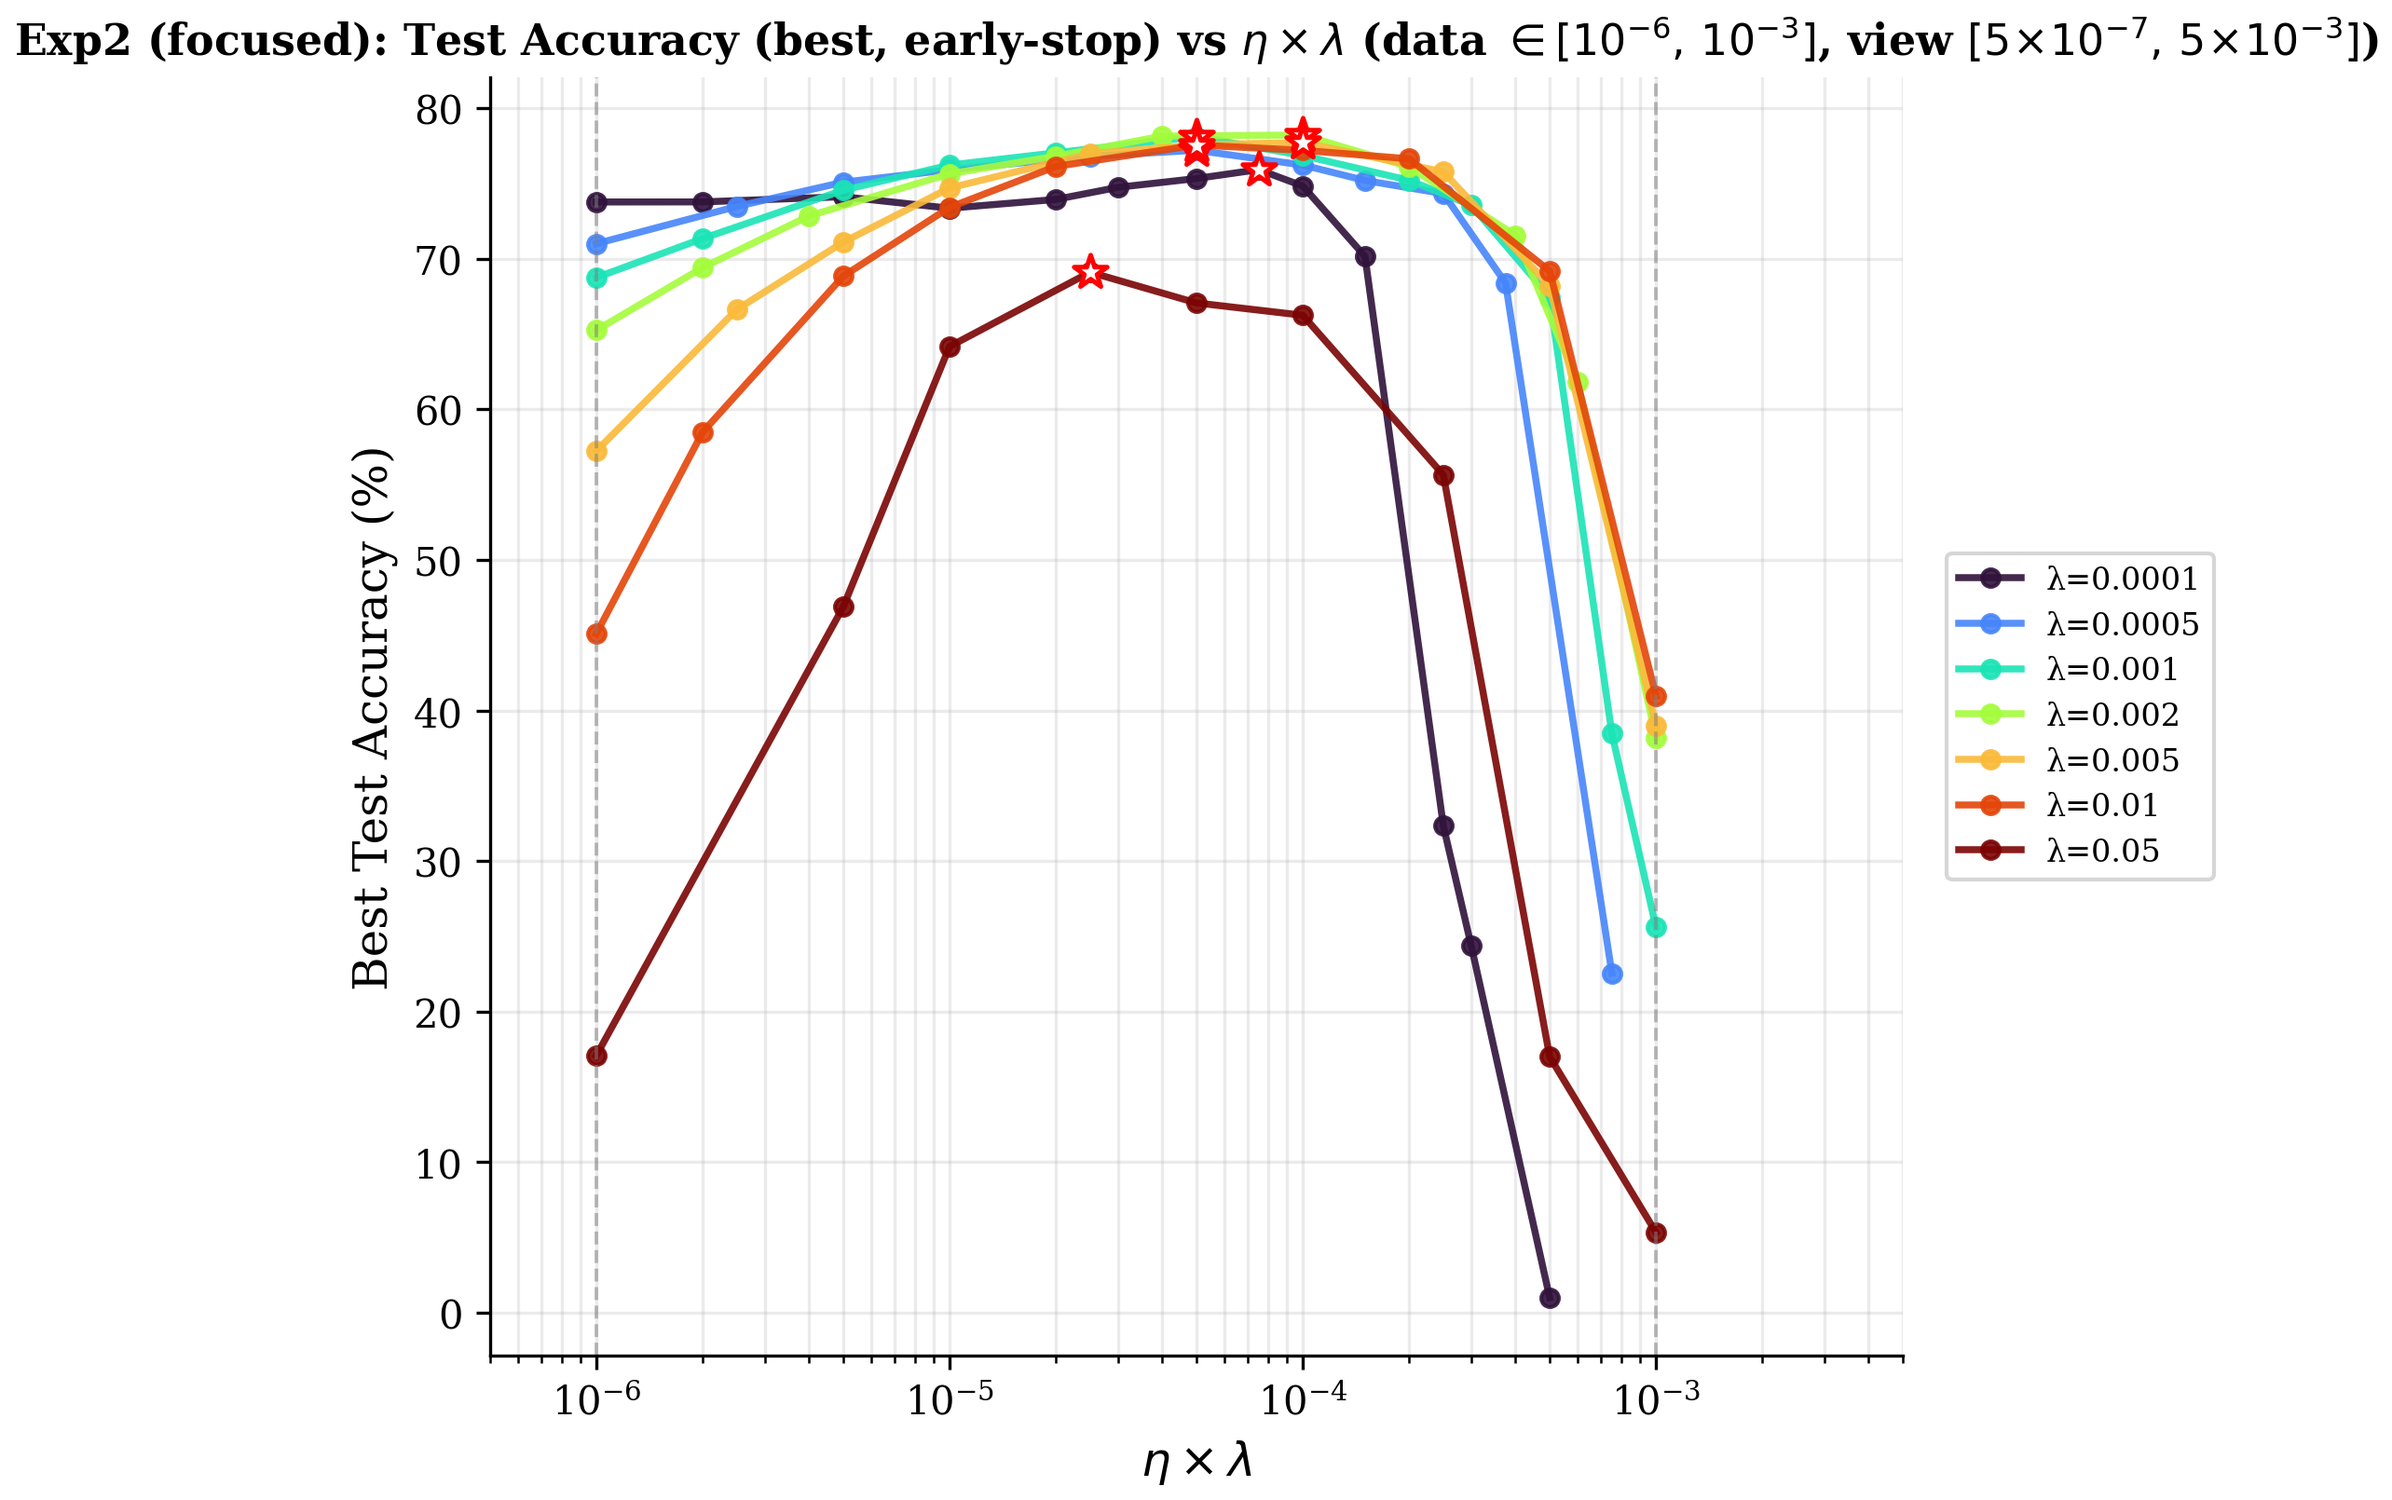
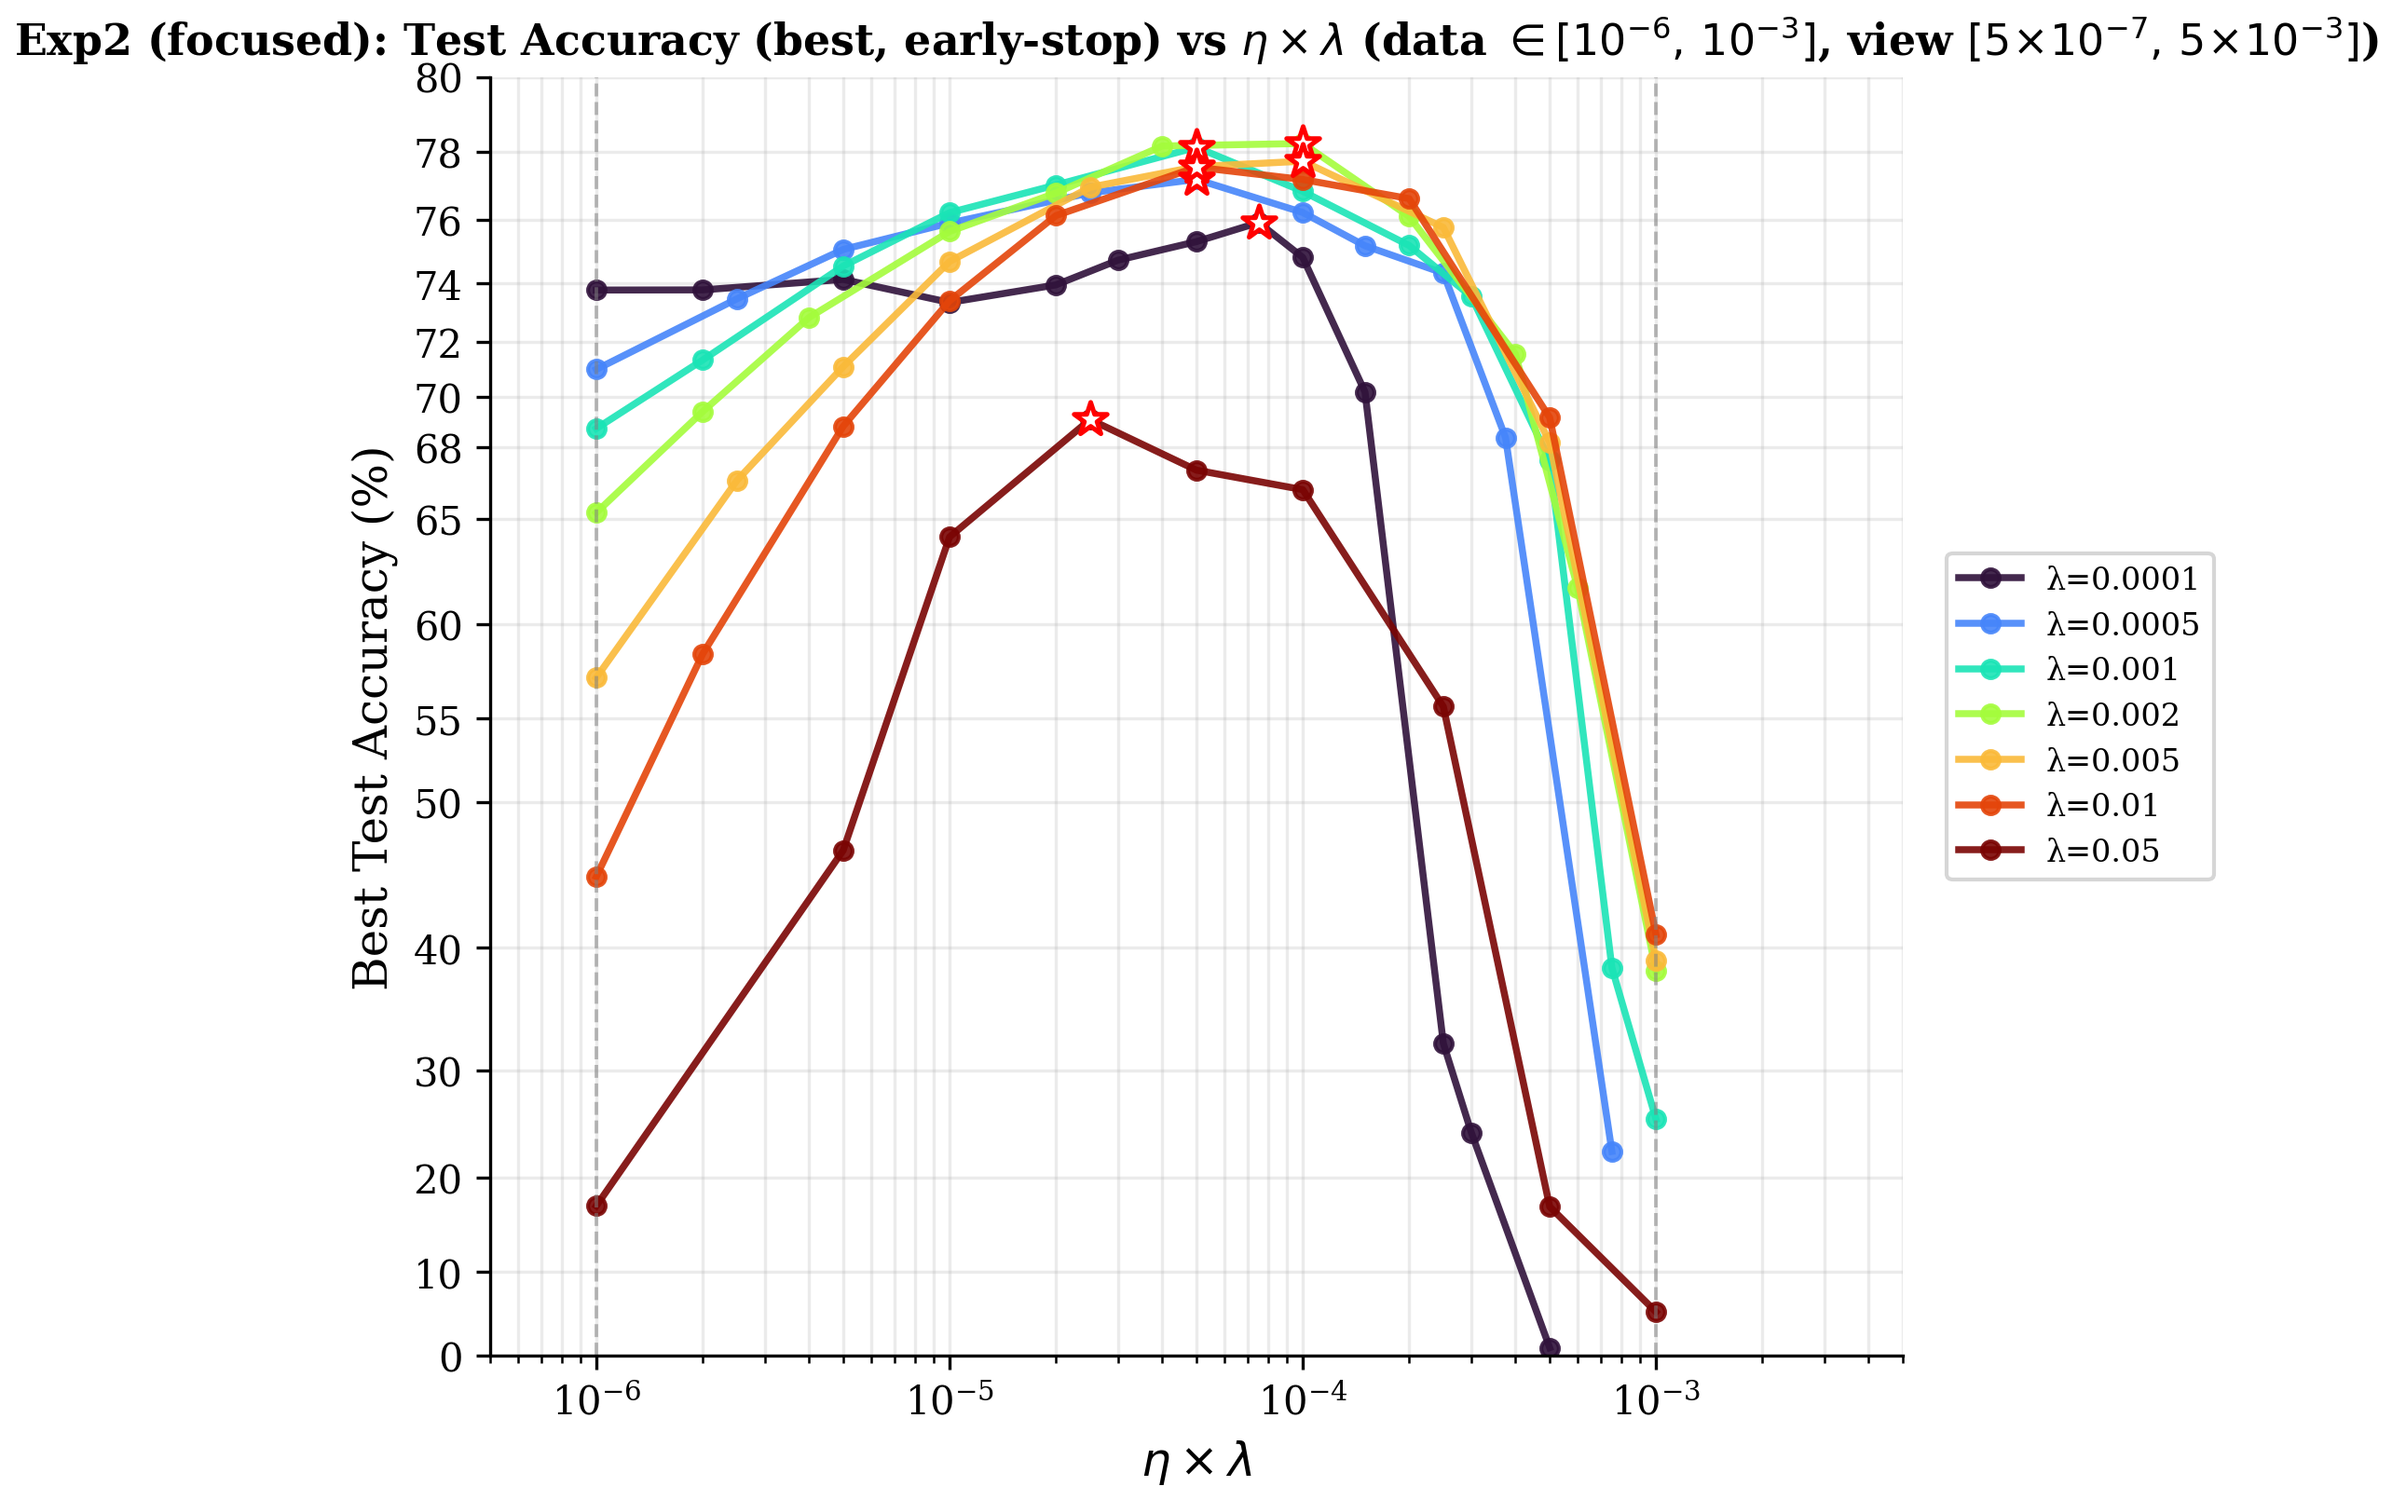
rebuttal: inverse-error y-axis for test-acc spoons + zoomed variants
Adds an "inverse_error" y-scale option to plot_exp2_focused_spoons so
that the high-accuracy region near the per-lambda optima is visually
emphasised:

  forward(p) = -log10(100.5 - p)
  inverse(y) = 100.5 - 10^(-y)

This compresses the low-accuracy / diverging tail and stretches the
70-80% band, matching what reviewers typically want to inspect on
generalisation curves.

Also exposes an `ylim` parameter on the plot helper and adds two
zoomed variants:
  response_to_reviewer_focused_test_acc_zoom.png  (ylim 60-80)
  response_to_reviewer_focused_best_acc_zoom.png  (ylim 60-80)

The zoomed best-acc plot makes the 6 main lambda curves' best-acc
stars (76-78%) collapse onto an almost flat band centred at
eta*lambda ~ 5e-5..1e-4, with lambda=0.05 visibly separated at 69%.

diff --git a/rebuttal/generate_figures.py b/rebuttal/generate_figures.py
@@ -349,7 +349,7 @@ def plot_exp2_focused_spoons(ext_dfs, out_name='response_to_reviewer_focused.png
                              title_metric='Test Loss', yscale='auto',
                              data_lo=None, data_hi=None,
                              view_lo=None, view_hi=None,
-                             higher_is_better=False):
+                             higher_is_better=False, ylim=None):
     """Main focused figure.
 
     - data points: η×λ in [data_lo, data_hi] (defaults to focus band)
@@ -379,6 +379,18 @@ def plot_exp2_focused_spoons(ext_dfs, out_name='response_to_reviewer_focused.png
     if yscale == 'auto':
         yscale = 'linear' if higher_is_better else ('log' if y_min < 0.3 else 'piecewise')
 
+    def _inverse_error_scale():
+        # forward: y = -log10(100 - acc + 0.5) -> compresses low acc, stretches high acc
+        # inverse: acc = 100.5 - 10^(-y)
+        offset = 0.5
+        def fwd(p):
+            p = np.asarray(p, dtype=float)
+            return -np.log10(np.maximum(100.0 + offset - p, 1e-3))
+        def inv(y):
+            y = np.asarray(y, dtype=float)
+            return 100.0 + offset - np.power(10.0, -y)
+        return fwd, inv
+
     fig, ax = plt.subplots(figsize=(7.0, 5.6))
     for i, wd in enumerate(wds):
         sub = agg[np.isclose(agg['wd'], wd)].sort_values('eta_lambda')
@@ -402,9 +414,20 @@ def plot_exp2_focused_spoons(ext_dfs, out_name='response_to_reviewer_focused.png
         ax.set_yscale('log')
     elif yscale == 'linear':
         ax.set_yscale('linear')
+    elif yscale == 'inverse_error':
+        fwd, inv = _inverse_error_scale()
+        ax.set_yscale('function', functions=(fwd, inv))
+        from matplotlib.ticker import FixedLocator, FixedFormatter
+        lo = ylim[0] if ylim else 0
+        candidate = [0, 10, 20, 30, 40, 50, 55, 60, 65, 68, 70, 72, 74, 76, 78, 80]
+        ticks = [t for t in candidate if t >= lo - 1e-6]
+        ax.yaxis.set_major_locator(FixedLocator(ticks))
+        ax.yaxis.set_major_formatter(FixedFormatter([str(t) for t in ticks]))
     else:
         fwd, inv = _piecewise_loss_scale(agg[metric].values)
         ax.set_yscale('function', functions=(fwd, inv))
+    if ylim is not None:
+        ax.set_ylim(*ylim)
     ax.set_xlabel(r'$\eta \times \lambda$', fontsize=12)
     ax.set_ylabel(y_label, fontsize=12)
     def _fmt_pow10(v):
@@ -764,9 +787,10 @@ if __name__ == '__main__':
         metric='final_test_acc',
         y_label='Test Accuracy (%)',
         title_metric='Test Accuracy (final)',
+        yscale='inverse_error',
         data_lo=1e-6, data_hi=1e-3,
         view_lo=5e-7, view_hi=5e-3,
-        higher_is_better=True,
+        higher_is_better=True, ylim=(0, 80),
     )
     plot_exp2_focused_spoons(
         ext_dfs,
@@ -774,9 +798,33 @@ if __name__ == '__main__':
         metric='best_test_acc',
         y_label='Best Test Accuracy (%)',
         title_metric='Test Accuracy (best, early-stop)',
+        yscale='inverse_error',
         data_lo=1e-6, data_hi=1e-3,
         view_lo=5e-7, view_hi=5e-3,
-        higher_is_better=True,
+        higher_is_better=True, ylim=(0, 80),
+    )
+    # Zoomed variants: focus on 60-80 band where the spoon "bottoms" cluster
+    plot_exp2_focused_spoons(
+        ext_dfs,
+        out_name='response_to_reviewer_focused_test_acc_zoom.png',
+        metric='final_test_acc',
+        y_label='Test Accuracy (%)',
+        title_metric='Test Accuracy (final, zoomed)',
+        yscale='inverse_error',
+        data_lo=1e-6, data_hi=1e-3,
+        view_lo=5e-7, view_hi=5e-3,
+        higher_is_better=True, ylim=(60, 80),
+    )
+    plot_exp2_focused_spoons(
+        ext_dfs,
+        out_name='response_to_reviewer_focused_best_acc_zoom.png',
+        metric='best_test_acc',
+        y_label='Best Test Accuracy (%)',
+        title_metric='Test Accuracy (best, zoomed)',
+        yscale='inverse_error',
+        data_lo=1e-6, data_hi=1e-3,
+        view_lo=5e-7, view_hi=5e-3,
+        higher_is_better=True, ylim=(60, 80),
     )
     plot_exp2_focused_index(ext_dfs)
     plot_exp2_focused_collapse(ext_dfs)
